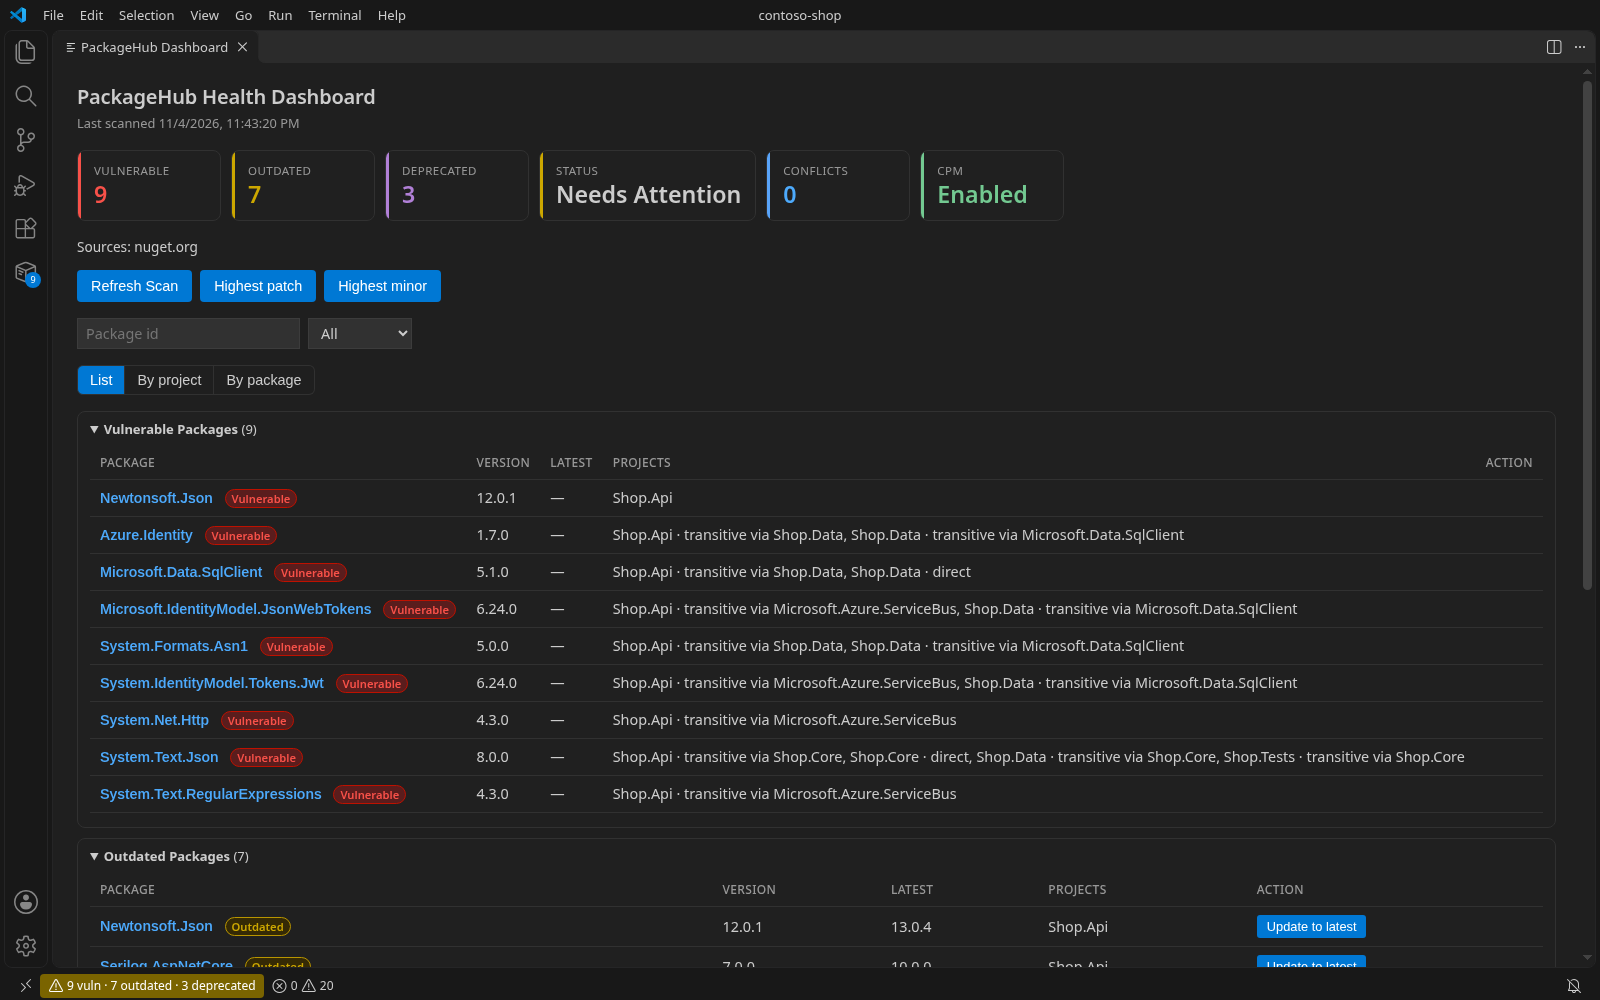
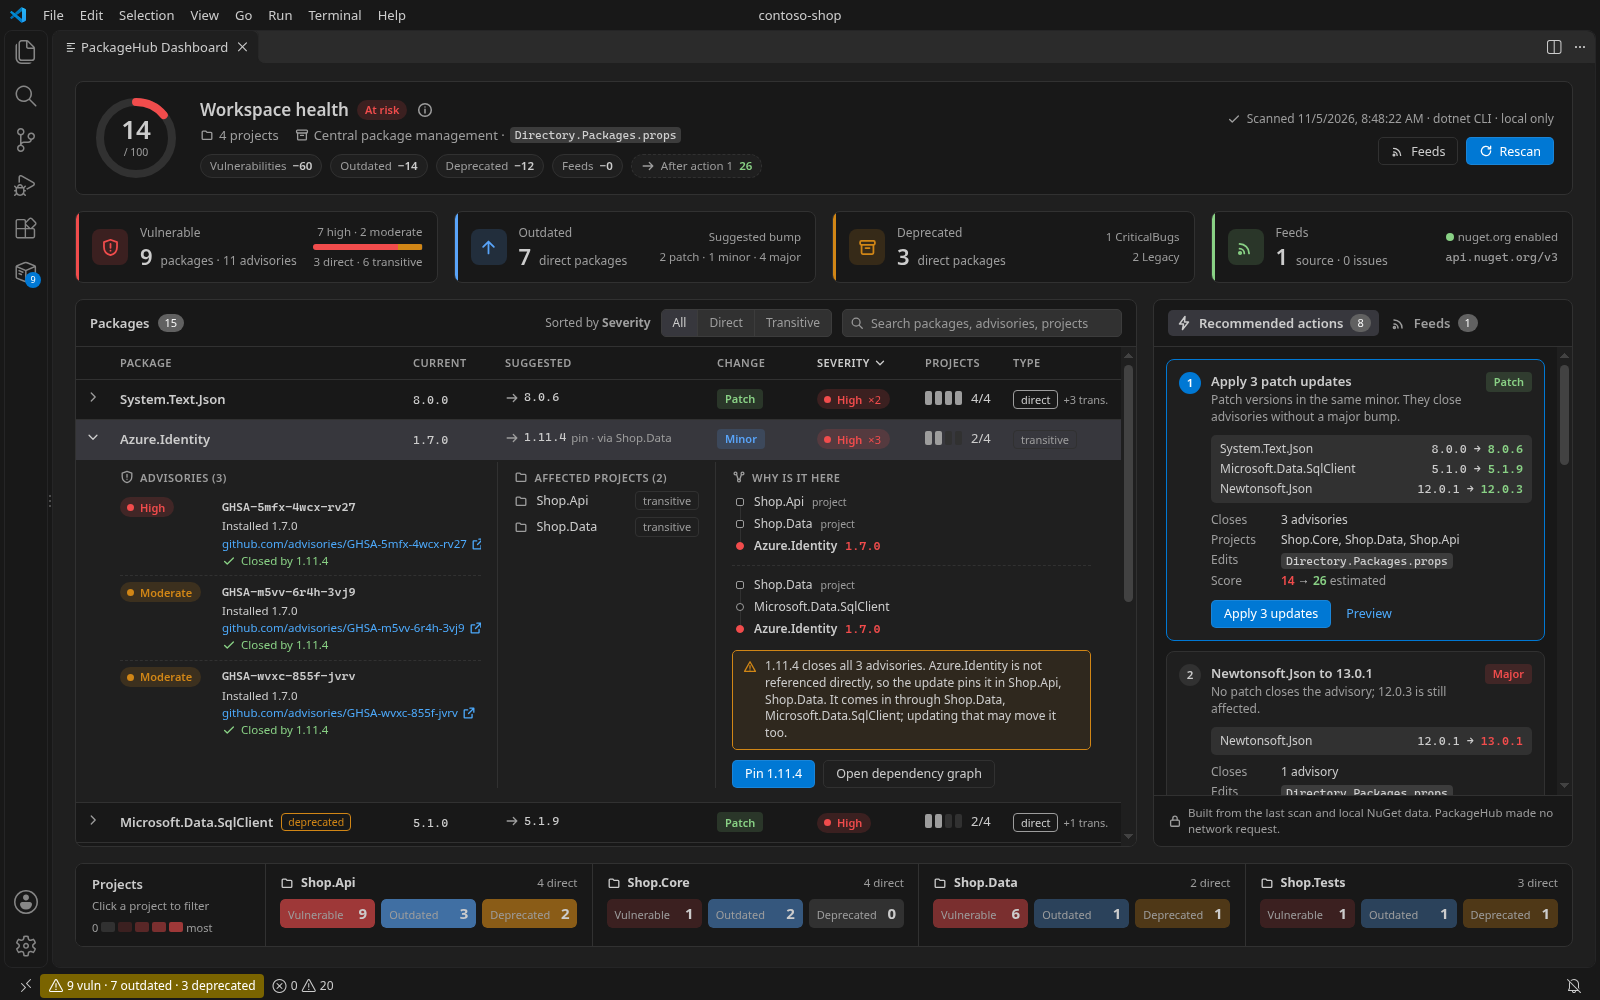
docs: describe the new dashboard and refresh its screenshots

diff --git a/README.md b/README.md
@@ -73,15 +73,17 @@ The status bar counts vulnerable, outdated and deprecated packages, and says whe
 
 ### Health Dashboard
 
-![The Health Dashboard: 9 vulnerable, 7 outdated, 3 deprecated, 0 conflicts, CPM enabled, the Highest patch and Highest minor buttons, a filter, and the vulnerable packages with their projects](docs/images/05-dashboard-dark.png)
+![The Health Dashboard for contoso-shop: health score 14 of 100, the KPI cards, the packages that need attention with the Azure.Identity row expanded with its advisories and path, the recommended actions, and the project heatmap](docs/images/05-dashboard-dark.png)
 
-`PackageHub: Show Health Dashboard` shows how many packages need attention, the NuGet sources in use, and whether Central Package Management is on.
+`PackageHub: Show Health Dashboard` gives the whole workspace in one place.
 
-- **Highest patch** and **Highest minor** update every package within its major version.
-- **Update to latest** on a row updates only that package.
-- Filter by package id or severity, and switch between **List**, **By project** and **By package**.
-- Version conflicts across projects and target frameworks get an **Align** button.
-- **Feed health** shows the same source status as the Feeds group.
+- **Health score** from 0 to 100. Vulnerable packages lower it by severity (critical 15, high 8, moderate 4, low 1, at most 60). Each outdated direct package takes 2 (at most 20), each deprecated one 4 (at most 12), and each failing feed 4 (at most 8). Hover the score to see the breakdown.
+- **Packages that need attention**: search, filter by vulnerable, outdated, deprecated, direct or transitive, and sort by any column. Expand a row for its advisories, the projects that use it, the path that brings a transitive package in, and the version that closes the advisories.
+- **Recommended actions**: the highest patch for every direct package, single updates where a patch is not enough, pins for transitive packages, and replacements for deprecated ones. Each shows the advisories it closes, the files it edits and the estimated score after it. **Preview** shows the update summary; **Apply** runs the same update as the rest of PackageHub, with the same confirmation.
+- **Projects** shows a heatmap of vulnerable, outdated and deprecated packages per project. Click a project to filter the table.
+- **Feeds** shows the same source status as the Feeds group.
+
+Everything on the dashboard comes from the last scan and the local advisory data. Opening it runs no `dotnet` command and makes no network request. It follows your color theme, including high contrast.
 
 ![The Health Dashboard in the Light Modern theme](docs/images/05-dashboard-light.png)
 
@@ -164,7 +166,6 @@ When you update a package, the new version is written to `Directory.Packages.pro
 | `packageHub.includePrerelease` | `false` | Adds prereleases to the next outdated list. The vulnerability scan stays the same |
 | `packageHub.minimumSeverity` | `low` | Lowest severity PackageHub lists: `low`, `moderate`, `high` or `critical`. It does not change `NuGetAuditLevel` in the project |
 | `packageHub.minimumReleaseAge` | `0` | How many days old a latest version must be before it is preferred. `0` is off. The highest-patch suggestion ignores this. Publish dates come from the local NuGet cache |
-| `packageHub.dashboardViewMode` | `list` | Dashboard layout: `list`, `byProject` or `byPackage` |
 | `packageHub.ignoredPackages` | `[]` | Package ids hidden from the lists |
 | `packageHub.onlineLookups` | `false` | Lets PackageHub ask nuget.org itself for advisory ranges and publish dates that are not in the local cache |
 | `packageHub.timeouts.listSeconds` | `120` | Timeout for `dotnet list package` and other quick commands |

diff --git a/CHANGELOG.md b/CHANGELOG.md
@@ -1,5 +1,15 @@
 # Changelog
 
+## [Unreleased]
+
+### Changed
+
+- New Health Dashboard: a health score with its breakdown, KPI cards, a package table you can search, filter, sort and expand (advisories, projects, the path that brings a transitive package in), recommended actions with Preview and Apply, a project heatmap and the feed status. It follows the color theme and is built from the last scan and local advisory data only.
+
+### Removed
+
+- The `packageHub.dashboardViewMode` setting. The table and the project heatmap replace the List, By project and By package layouts.
+
 ## [0.1.0] - 2026-11-05
 
 ### Added
